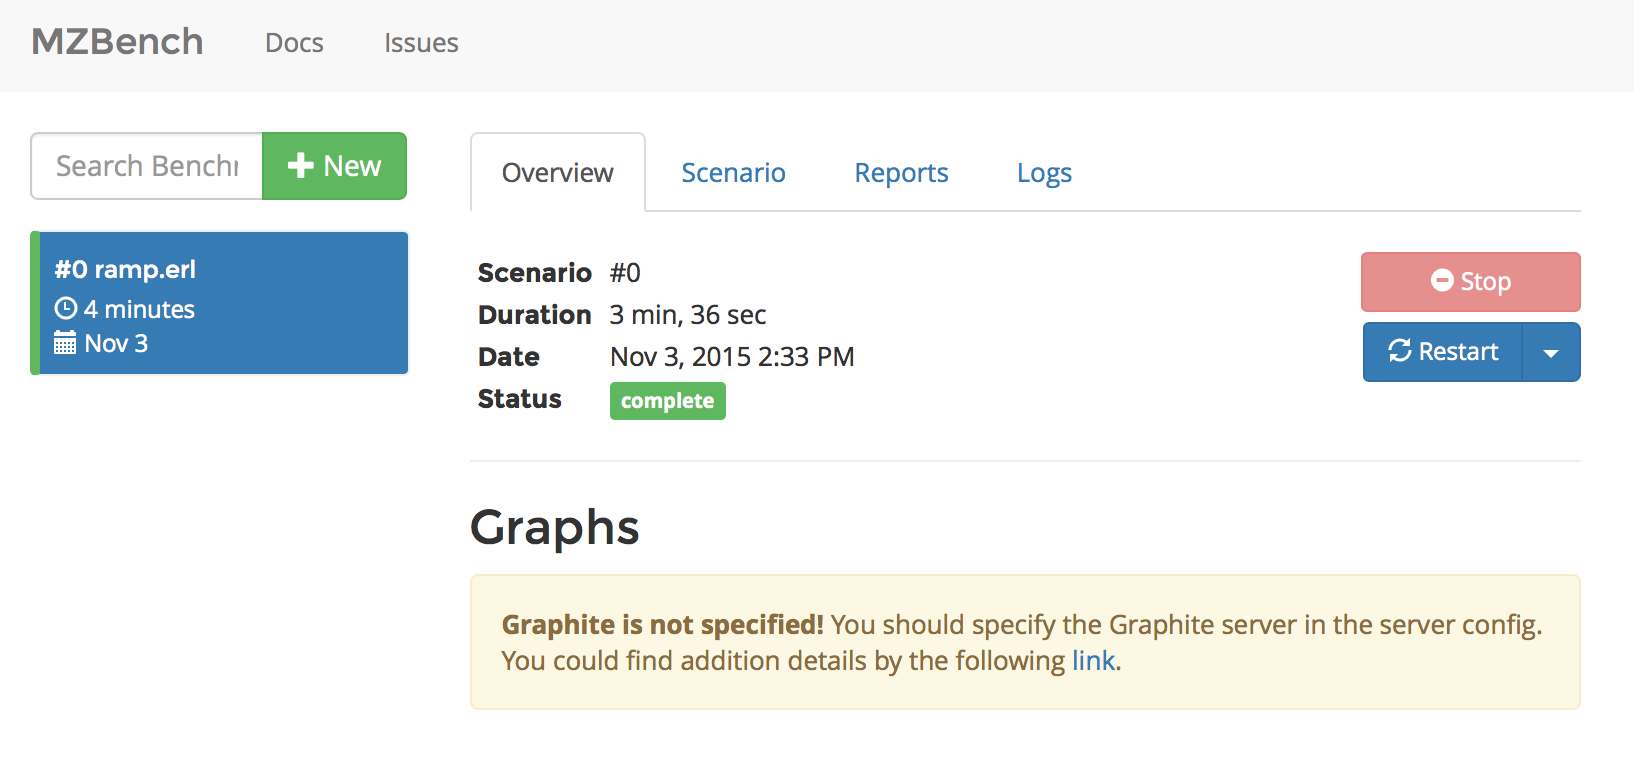
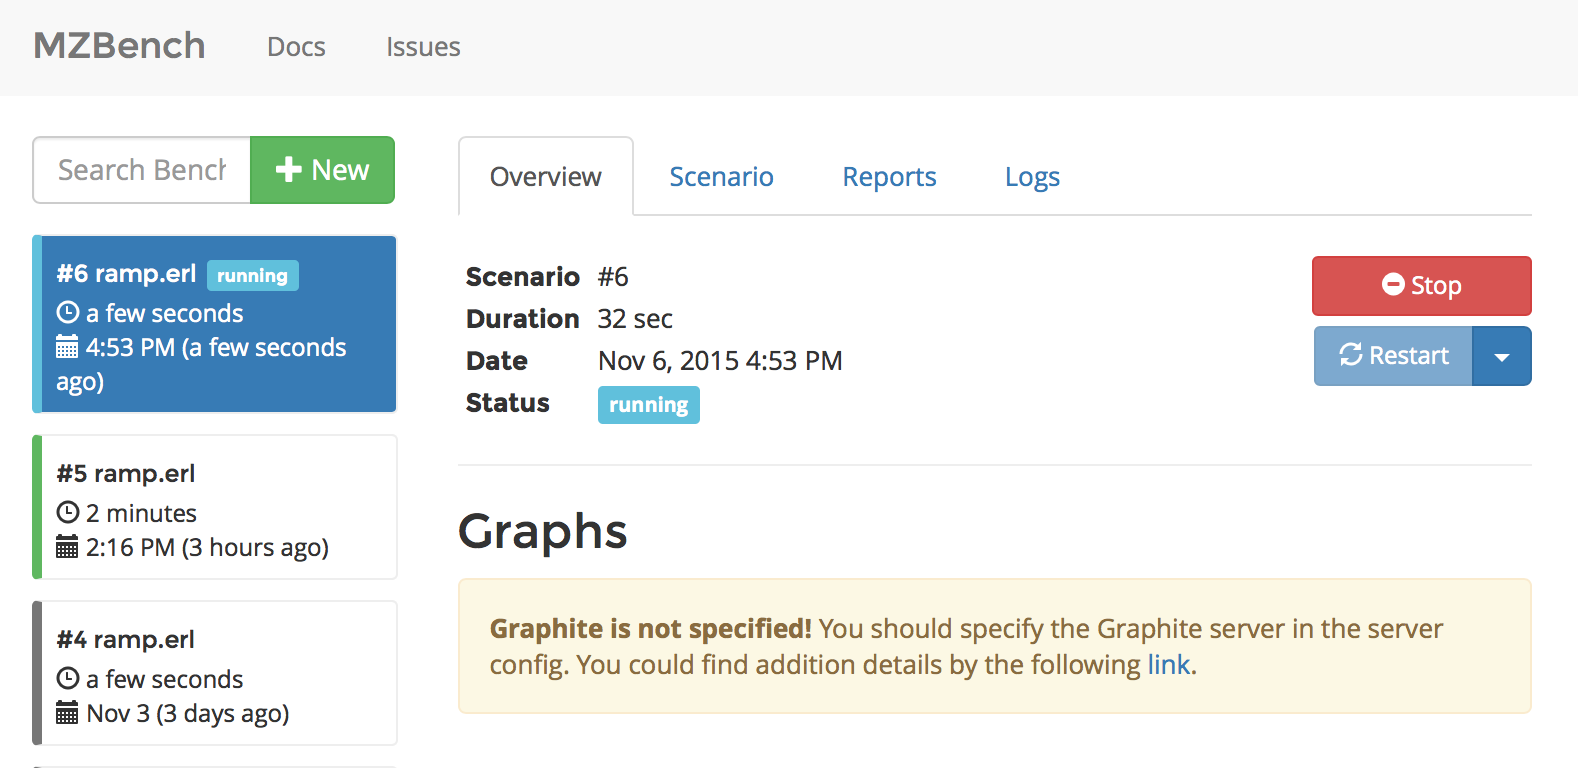
Docs: Theme changed, index updated, image updated.

diff --git a/doc/index.md b/doc/index.md
@@ -1,4 +1,4 @@
-# Welcome to MZBench!
+# Welcome to MZBench
 
 ***An expressive and extendable load testing tool***
 
@@ -6,14 +6,16 @@
 
 ![Graphs](images/graphs.png)
 
-MZBench is a stress-testing tool for highload projects. It runs your test scenarios on hundreds of thousands of machines and generates real-time graphs.
+MZBench helps software testers and developers benchmark their products to see how stress tolerant they are and find their weak spots. By benchmarking your product before going to production, you reduce the risk of outages under real life high load. 
 
-MZBench ships with a web dashboard that lets you run and review your benchmarks. You can also control MZBench from the command line and via the web API.
+MZBench runs your test scenarios on hundreds of thousands of machines simultaneously, pushing even the largest services to their limit.
+
+As your benchmark is running, you see real-time stats and graphs in the built-in web dashboard.
 
 
 ## Installation
 
-To use MZBench, you'll need
+To use MZBench, you'll need:
 
  - Erlang R17
  - C++ compiler
@@ -27,7 +29,7 @@ Download MZBench from GitHub and install Python requirements:
 
 ```bash
 $ git clone https://github.com/machinezone/mzbench
-$ sudo pip install -r mzdench/requirements.txt 
+$ sudo pip install -r mzbench/requirements.txt 
 ```
 
 ## Quickstart
@@ -41,7 +43,8 @@ Executing make -C /path/to//mzbench/bin/../server generate
 Executing /path/to//mzbench/bin/../server/_build/default/rel/mzbench_api/bin/mzbench_api start
 ```
 
-The first server start takes a few minutes. The shell will not respond, which is OK; please be patient. Further starts will be much faster.
+!!!note
+    The first server start takes a few minutes. The shell will not respond, which is OK; please be patient. Further starts will be much faster.
 
 When the server is running, launch an example benchmark:
 
@@ -49,7 +52,7 @@ When the server is running, launch an example benchmark:
 $ ./bin/mzbench run examples/ramp.erl
 {
     "status": "pending", 
-    "id": 0
+    "id": 6
 }
 status: running                       00:09
 ```
